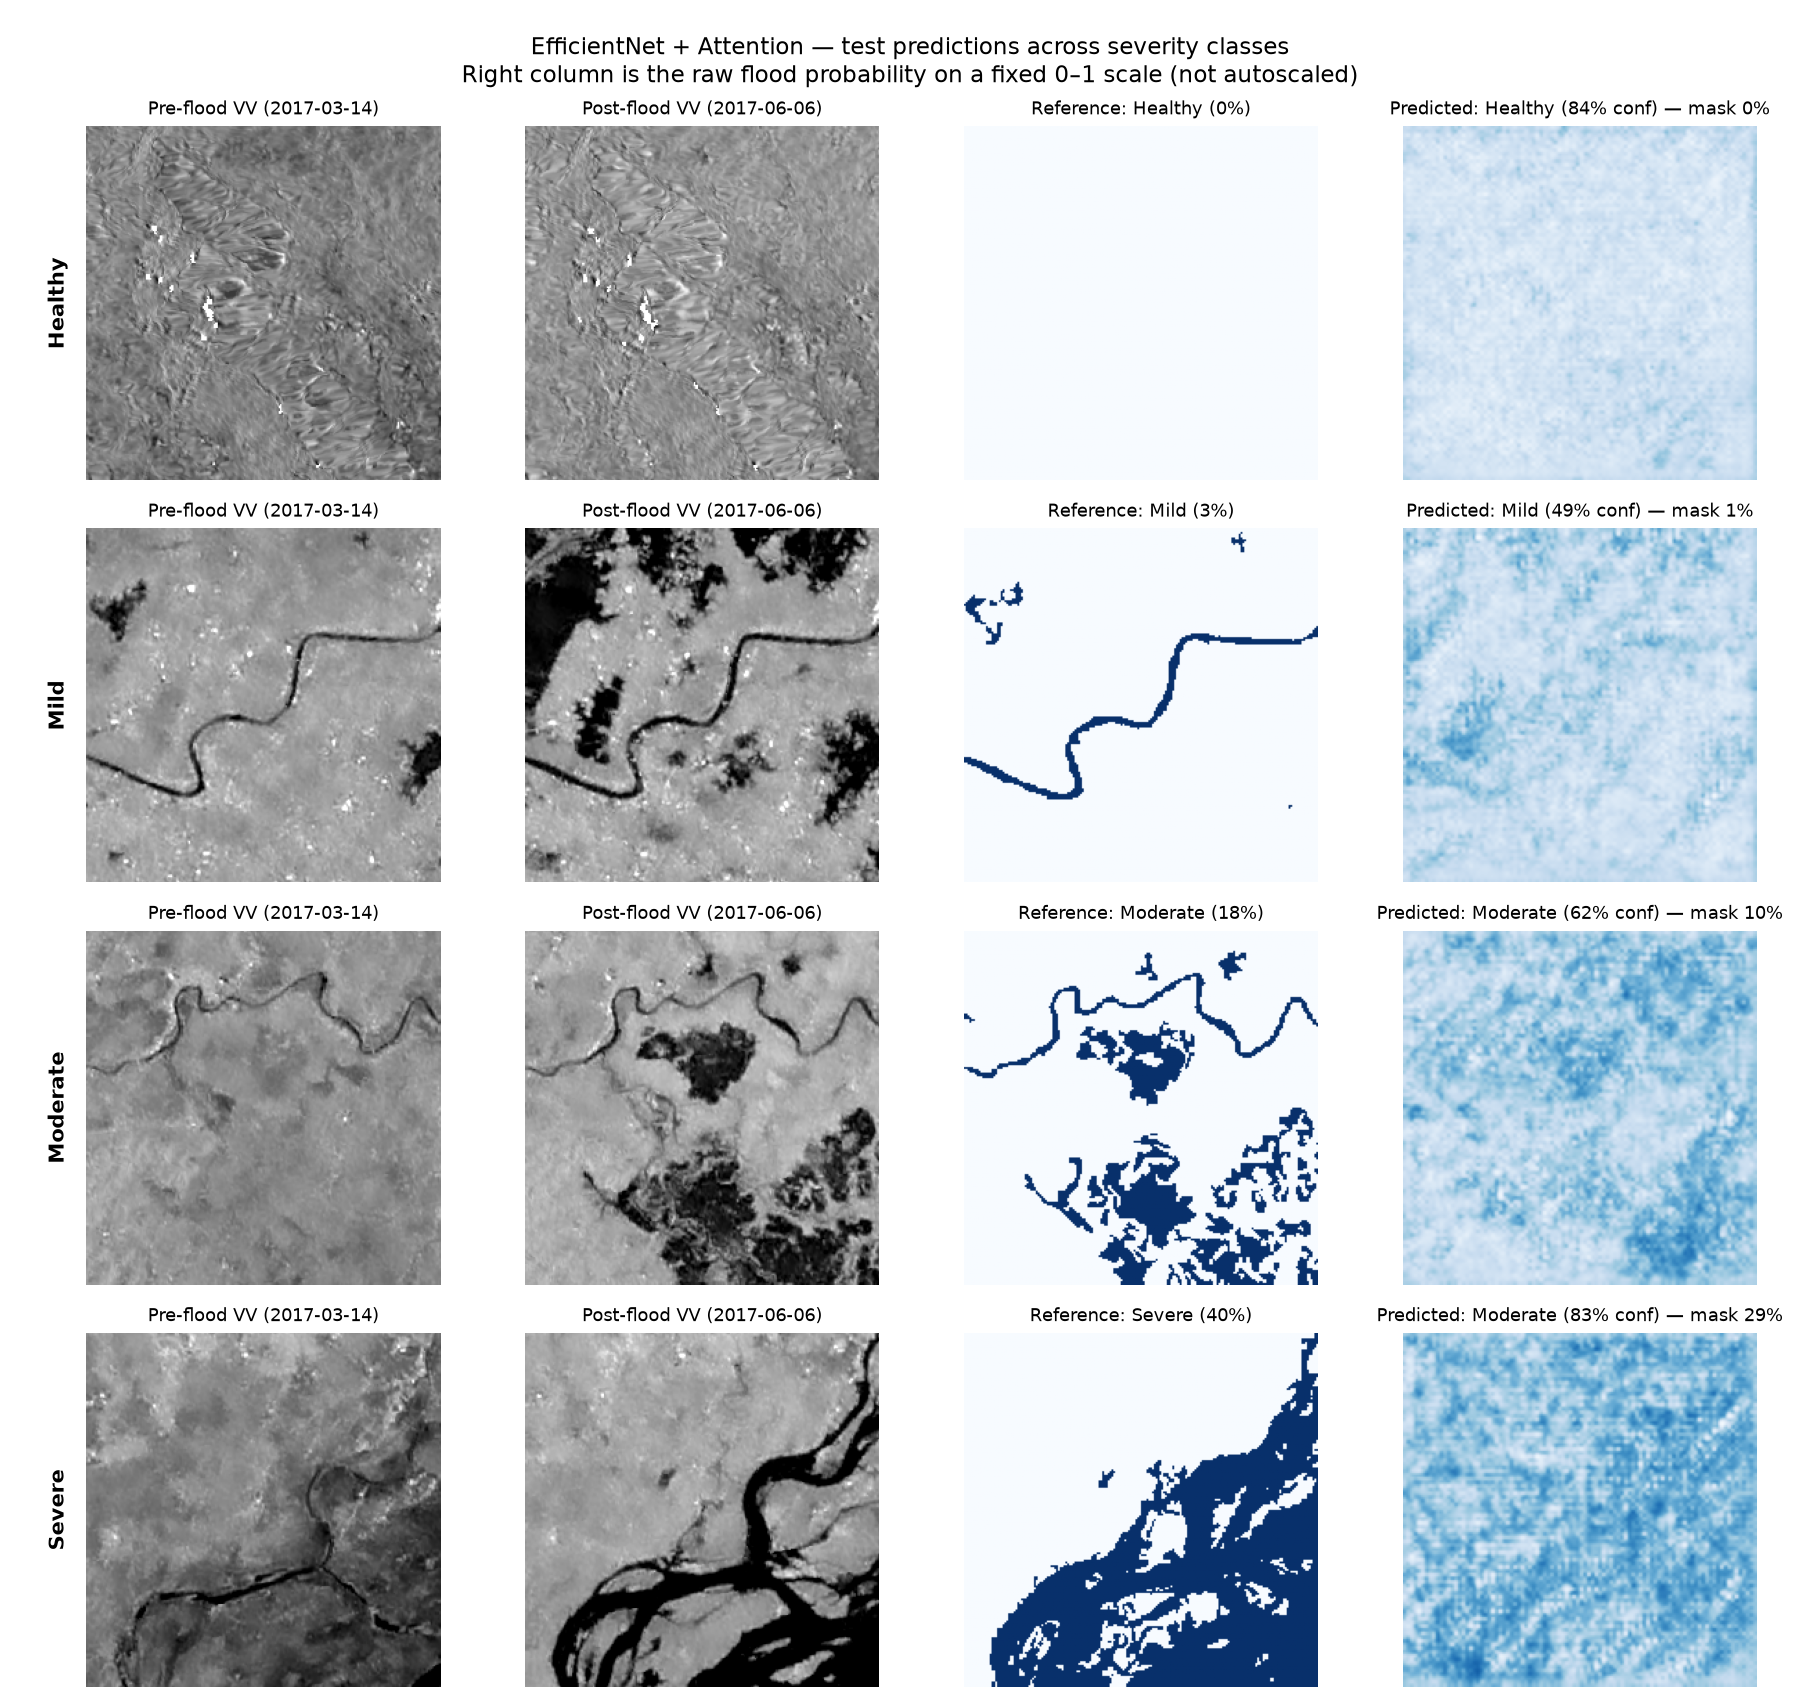
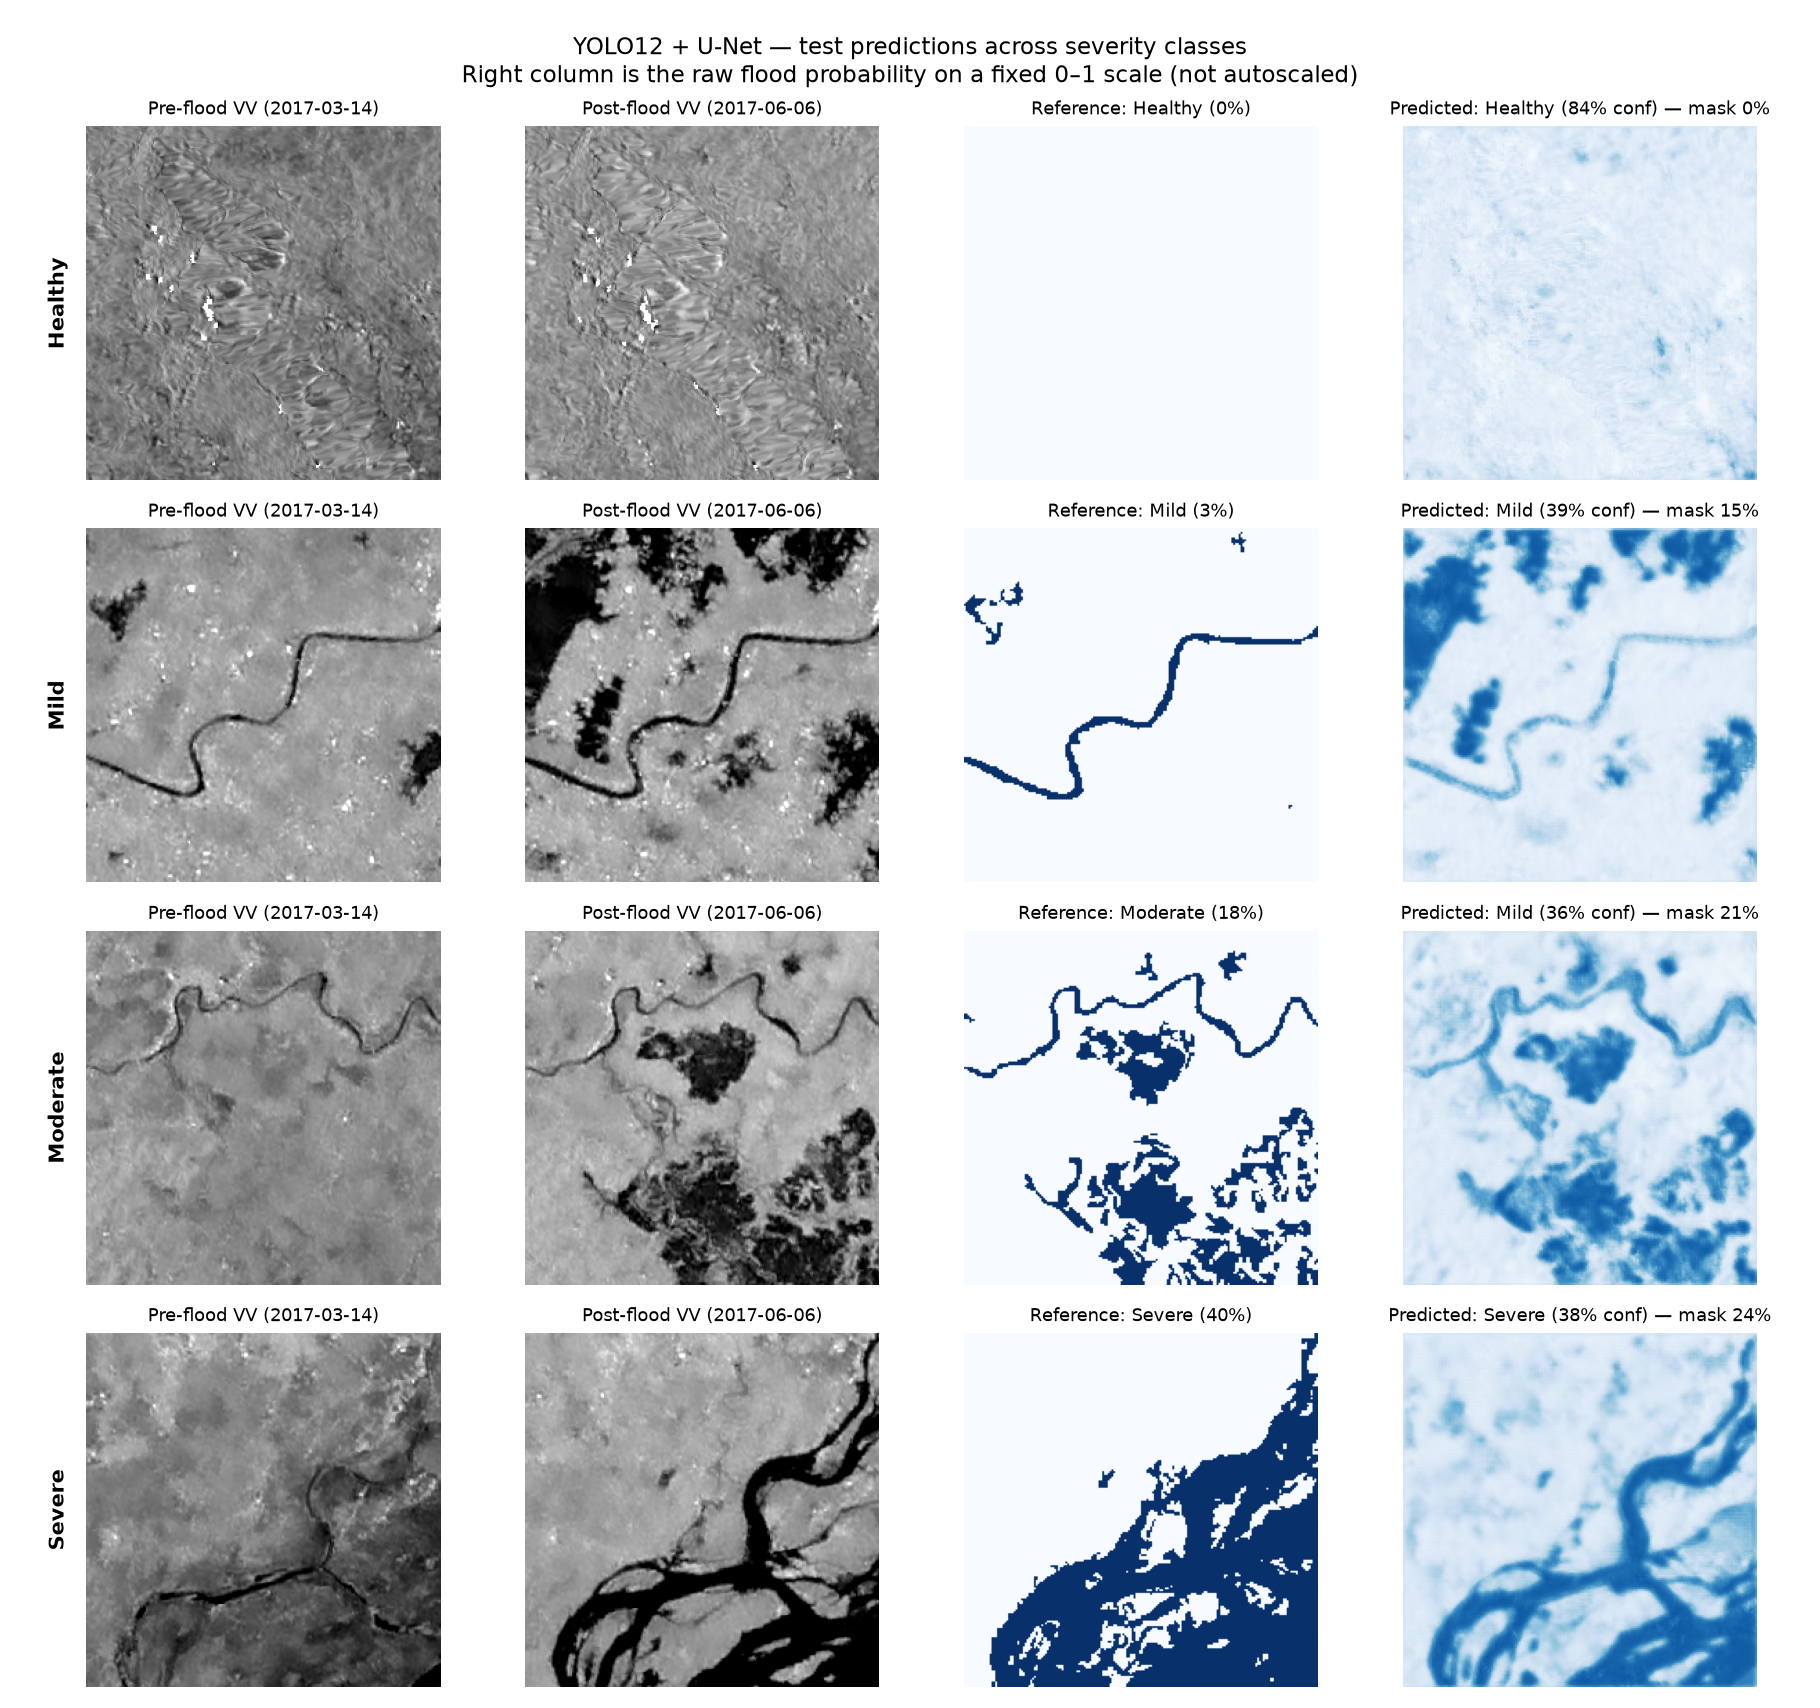
feat(eval): qualitative panel follows the cross-validated models
Handles the 6-channel change stack, and picks the fold whose own macro-F1 sits closest to the
out-of-fold average rather than the best fold, so the panel shows a typical model instead of
the luckiest one.

The difference against the earlier single-split panel is visible: the Healthy tile no longer
hallucinates a 30% water mask (now 0%, 84% confidence) and the Severe tile is classified
correctly.

diff --git a/src/fcda/eval/qualitative.py b/src/fcda/eval/qualitative.py
@@ -38,7 +38,7 @@ def render_predictions(
     plt = _agg("agg")
     from ..data.etci import _stack_sar, load_planes
     from ..data.severity import severity_from_masks
-    from ..models.registry import DISPLAY_NAMES, build_model, is_temporal
+    from ..models.registry import DISPLAY_NAMES, build_model, is_temporal, wants_change_input
     from ..preprocess.transforms import build_transform
 
     idx_files = sorted(data_root.glob("index_*.json"))
@@ -64,6 +64,7 @@ def render_predictions(
     model.eval()
     tf = build_transform(train=False, use_clahe=True)
     temporal = is_temporal(model_name)
+    change = wants_change_input(model_name)
 
     rows = len(chosen)
     fig, axes = plt.subplots(rows, 4, figsize=(13, 3.05 * rows), squeeze=False)
@@ -71,10 +72,12 @@ def render_predictions(
     for r, rec in enumerate(chosen):
         p = load_planes(data_root, rec["tile_id"])
         post = tf(_stack_sar(p["post_vv"], p["post_vh"], size))
+        pre = tf(_stack_sar(p["pre_vv"], p["pre_vh"], size))
         x = torch.from_numpy(post).float()[None]
         if temporal:
-            pre = tf(_stack_sar(p["pre_vv"], p["pre_vh"], size))
             x = torch.stack([torch.from_numpy(pre).float(), x[0]], dim=0)[None]
+        elif change:
+            x = torch.from_numpy(np.concatenate([post, post - pre], axis=0)).float()[None]
         with torch.no_grad():
             seg, cls = model(x)
         prob = torch.sigmoid(seg)[0, 0].numpy()
@@ -130,7 +133,32 @@ def render_predictions(
 
 
 def render_best(reports: Path, data_root: Path, checkpoints: Path) -> Path | None:
-    """Render the panel for whichever model scored best on the test split."""
+    """Render the panel for whichever model scored best out-of-fold.
+
+    Prefers the cross-validated results and their fold checkpoints; falls back to the
+    single-split run when cross validation has not been run.
+    """
+    from .cv_report import load as load_cv
+
+    cv = load_cv(reports)
+    if cv and cv.get("models"):
+        ranked = sorted(cv["models"],
+                        key=lambda m: m.get("oof_metrics", {}).get("macro_f1", -1), reverse=True)
+        for m in ranked:
+            # Use the fold whose own macro-F1 was closest to the out-of-fold average, so the
+            # panel shows a typical model rather than the luckiest one.
+            folds = [f for f in m.get("folds", []) if f.get("ok")]
+            if not folds:
+                continue
+            target = m.get("oof_metrics", {}).get("macro_f1", 0.0)
+            best = min(folds, key=lambda f: abs(f["metrics"].get("macro_f1", 0.0) - target))
+            ck = checkpoints / f"{m['model']}_fold{best['fold']}.pt"
+            if ck.exists():
+                return render_predictions(
+                    ck, m["model"], data_root, reports / "figures" / "predictions.png",
+                    size=cv.get("image_size", 192),
+                )
+
     results_path = reports / "results.json"
     if not results_path.exists():
         return None
@@ -143,10 +171,7 @@ def render_best(reports: Path, data_root: Path, checkpoints: Path) -> Path | Non
         tier["models"], key=lambda m: (m.get("final_test") or {}).get("macro_f1", -1), reverse=True
     )
     for m in ranked:
-        suffix = "_corrected" if m.get("selected_run") == "corrected" else ""
-        ck = checkpoints / f"{m['name']}_{tier['tier']}{suffix}.pt"
-        if not ck.exists():
-            ck = checkpoints / f"{m['name']}_{tier['tier']}.pt"
+        ck = checkpoints / f"{m['name']}_{tier['tier']}.pt"
         if ck.exists():
             return render_predictions(
                 ck, m["name"], data_root, reports / "figures" / "predictions.png",
